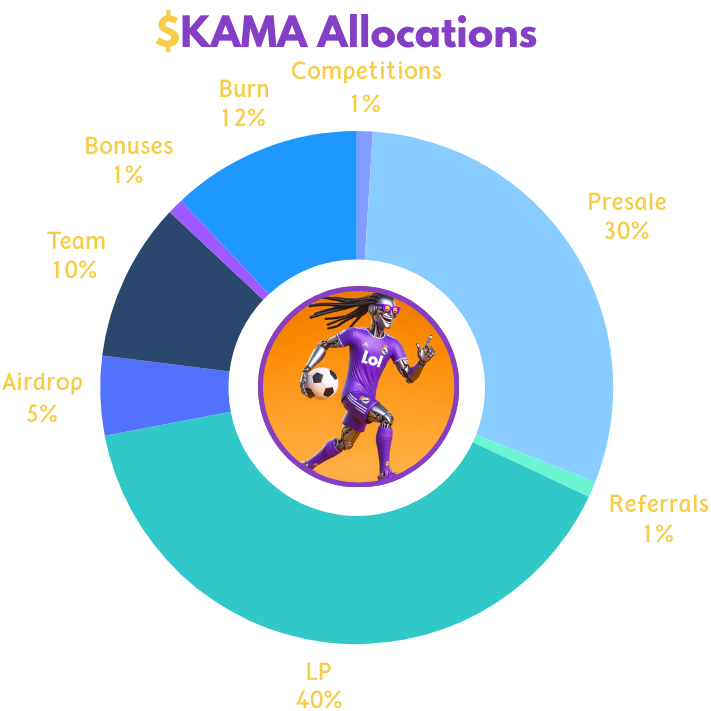
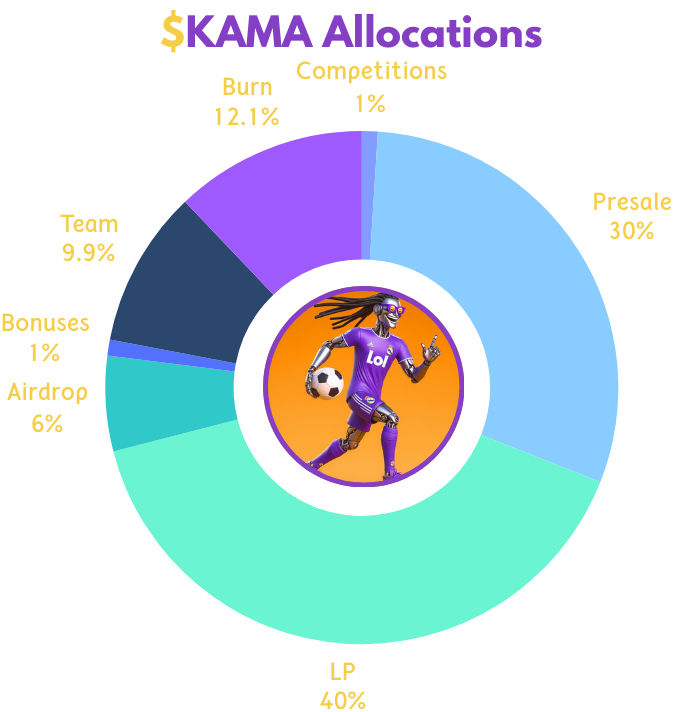
Update Allocs.

diff --git a/src/components/Programs.js b/src/components/Programs.js
@@ -1,7 +1,7 @@
 import React, { useEffect, useRef } from 'react';
 import presalcommunityBonusesPic from "../../public/images/presale.png";
 import airdropPic from "../../public/images/airdrop.png";
-import referralsPic from "../../public/images/referrals.png";
+import firstInAirdropPic from "../../public/images/firstInAirdropPic.png";
 import communityBonusesPic from "../../public/images/community-competitions.png";
 import firstBuyersBonusesPic from "../../public/images/first-buyers-bonuses.png";
 import biggestBuyersBonusesPic from "../../public/images/biggest-buyers-bonuses.png";
@@ -34,7 +34,7 @@ const Programs = () => {
                 </div>
                 <div className='flex w-full flex-col items-center justify-center font-bold text-sm pt-3'>
                     <h1>30% of $KAMA for</h1>
-                    <h1>Presale On X/Twitter</h1>
+                    <h1>Presale Allocation</h1>
                 </div>
                 <div className='flex w-full flex-col items-center justify-center font-bold text-sm text-primaryDark dark:text-primary pt-3'>
                     <p>Minimum 0.3 SOL</p>
@@ -57,8 +57,8 @@ const Programs = () => {
                     <h1>Airdrop</h1>
                 </div>
                 <div className='flex w-full flex-col items-center justify-center font-bold text-sm pt-3'>
-                    <h1>2,580 Random users</h1>
-                    <h1>with min. 3 referrals.</h1>
+                    <h1>2,580 Random</h1>
+                    <h1>Participants</h1>
                 </div>
                 <div className='flex w-full flex-col items-center justify-center font-bold text-sm text-primaryDark dark:text-primary pt-3'>
                     <p>50,000 $KAMA Each</p>
@@ -72,20 +72,20 @@ const Programs = () => {
                     className='absolute top-0 -right-3 -z-10 w-[102%] h-[103%] rounded-[2rem] bg-dark dark:bg-light'
                 />
                 <div>
-                    <Image src={referralsPic} alt='$KAMA Memecoin' className='w-full h-auto rounded-2xl'
+                    <Image src={firstInAirdropPic} alt='$KAMA Memecoin' className='w-full h-auto rounded-2xl'
                     priority
                     sizes="(max-width: 768px) 100vw, (max-width: 120px) 50vw, 33vw"
                     />
                 </div>
                 <div className='flex w-full flex-col items-center justify-center font-bold text-lg pt-6 text-primaryDark dark:text-primary'>
-                    <h1>Referrals</h1>
+                    <h1>First In Airdrop</h1>
                 </div>
                 <div className='flex w-full flex-col items-center justify-center font-bold text-sm pt-3'>
-                    <h1>25.8M $KAMA to</h1>
-                    <h1>Top 258 Referrers.</h1>
+                    <h1>Guaranteed $KAMA to the</h1>
+                    <h1>First 500 to join Airdrop.</h1>
                 </div>
                 <div className='flex w-full flex-col items-center justify-center font-bold text-sm text-primaryDark dark:text-primary pt-3'>
-                    <p>100,000 $KAMA Each</p>
+                    <p>51,600 $KAMA Each</p>
                 </div>
             </div>
         </div>
@@ -153,14 +153,14 @@ const Programs = () => {
                     />
                 </div>
                 <div className='flex w-full flex-col items-center justify-center font-bold text-lg pt-6 text-primaryDark dark:text-primary'>
-                    <h1>Max Buyers Bonuses</h1>
+                    <h1>Top Buyers Bonuses</h1>
                 </div>
                 <div className='flex w-full flex-col items-center justify-center font-bold text-sm pt-3'>
-                    <h1>12.9M $KAMA to 100</h1>
+                    <h1>12.9M $KAMA to Top 10</h1>
                     <h1>Biggest Presale Buyers.</h1>
                 </div>
                 <div className='flex w-full flex-col items-center justify-center font-bold text-sm text-primaryDark dark:text-primary pt-3'>
-                    <p>129,000 $KAMA Each</p>
+                    <p>1,290,000 $KAMA Each</p>
                 </div>
             </div>
         </div>

diff --git a/src/components/Roadmap.js b/src/components/Roadmap.js
@@ -5,7 +5,7 @@ import LiIconDone from "./LiIconDone"
 import LiIconProgress from "./LiIconProgress"
 import CountdownTimer from './CountdownTimer';
 
-const airdropCountdownDate = new Date('May 5, 2024 23:59:59 UTC').getTime();
+const airdropCountdownDate = new Date('April 30, 2024 23:59:59 UTC').getTime();
 const airdropCountdownTitle = <h1 className='' >Airdrop&nbsp;</h1>;
 
 const presaleCountdownDate = new Date('April 26, 2024 23:59:59 UTC').getTime();
@@ -139,13 +139,6 @@ const Roadmap = () => {
                 />
 
                 <DoneDetails 
-                title="Telegram Bot"
-                status="DONE"
-                time=""
-                info="Build and deploy the $KAMA Telegram Bot for Airdrop and Referrals."
-                />
-                
-                <DoneDetails 
                 title="Initiate Marketing Campaign"
                 status="DONE"
                 time=""
@@ -191,10 +184,10 @@ const Roadmap = () => {
                 />
                 
                 <Details 
-                title="Presale Token Distribution"
+                title="Presale & Bonuses Token Distribution"
                 status=""
                 time="" // April 23th, 2024
-                info="Distribute the token allocation of presale participants."
+                info="Distribute the token allocation of presale participants (including their bonuses)."
                 />
                 
                 <Details 
@@ -205,6 +198,13 @@ const Roadmap = () => {
                 />
                 
                 <Details 
+                title="Kickstart Competitions"
+                status=""
+                time=""
+                info="Start Weekly $KAMA Meme Creators competition."
+                />
+
+                <Details 
                 title="Airdrop Distribution"
                 status=""
                 time=""
@@ -212,17 +212,10 @@ const Roadmap = () => {
                 />
 
                 <Details 
-                title="Bonuses Distribution"
-                status=""
-                time=""
-                info="Validate and Distribute the Bonus allocations."
-                />
-
-                <Details 
                 title="Daily Token Burn"
                 status=""
                 time="" // May 11th, 2024 - May 21st, 2024
-                info="Burn $KAMA - Burn 12% over the period of 12 days (1% Burn per day)."
+                info="Burn $KAMA - Burn 12.1% over the period of 10 days (1.21% Burn per day)."
                 />
             </ul>
         </div>

diff --git a/src/components/Kamanomics.js b/src/components/Kamanomics.js
@@ -82,7 +82,7 @@ const Kamanomics = () => {
                     <h1>Fair Tokenomics</h1>
                 </div>
                 <div className='flex w-full flex-col items-center justify-center font-bold text-sm'>
-                <h1>10% for Team & 12% for Burn</h1>
+                <h1>9.9% Team & 12.1% Burn</h1>
                 </div>
             </div>
 
@@ -93,10 +93,10 @@ const Kamanomics = () => {
                     className='absolute top-0 -right-3 -z-10 w-[102%] h-[103%] rounded-[2rem] bg-dark dark:bg-light'
                 />
                 <div className='flex w-full flex-col items-center justify-center font-bold text-lg pt-6 text-primaryDark dark:text-primary'>
-                    <h1>Daily Burn</h1>
+                    <h1>Daily Burn 1.21%</h1>
                 </div>
                 <div className='flex w-full flex-col items-center justify-center font-bold text-sm'>
-                    <h1>Burn 12% in 12 Days</h1>
+                    <h1>Burn 12.1% in 10 Days</h1>
                 </div>
             </div>
 
@@ -152,10 +152,10 @@ const Kamanomics = () => {
                     className='absolute top-0 -right-3 -z-10 w-[102%] h-[103%] rounded-[2rem] bg-dark dark:bg-light'
                 />
                 <div className='flex w-full flex-col items-center justify-center font-bold text-lg pt-6 text-primaryDark dark:text-primary'>
-                    <h1>Referrals</h1>
+                    <h1>LP Launch</h1>
                 </div>
                 <div className='flex w-full flex-col items-center justify-center font-bold text-sm'>
-                    <h1>Referrals for Marketing</h1>
+                    <h1>70% of Raised $SOL for LP</h1>
                 </div>
             </div>
 

diff --git a/src/pages/index.js b/src/pages/index.js
@@ -67,7 +67,7 @@ export default function Home() {
                 >Presale <LinkArrow className={"w-6 ml-1"}/>
                 </Link>
 
-                <Link href="https://t.me/kamawinga_bot" target={"_blank"}
+                <Link href="https://x.com/kamawinga_lol" target={"_blank"}
                 className="ml-10 flex items-center bg-primaryDark text-primary p-2.5 px-6 rounded-lg text-lg font-semibold
                 hover:bg-primary hover:text-primaryDark border-2 border-solid border-primary hover:border-primaryDark
                 dark:bg-primaryDark dark:text-primary hover:dark:bg-primary hover:dark:text-primaryDark dark:border-primary hover:dark:border-primaryDark
